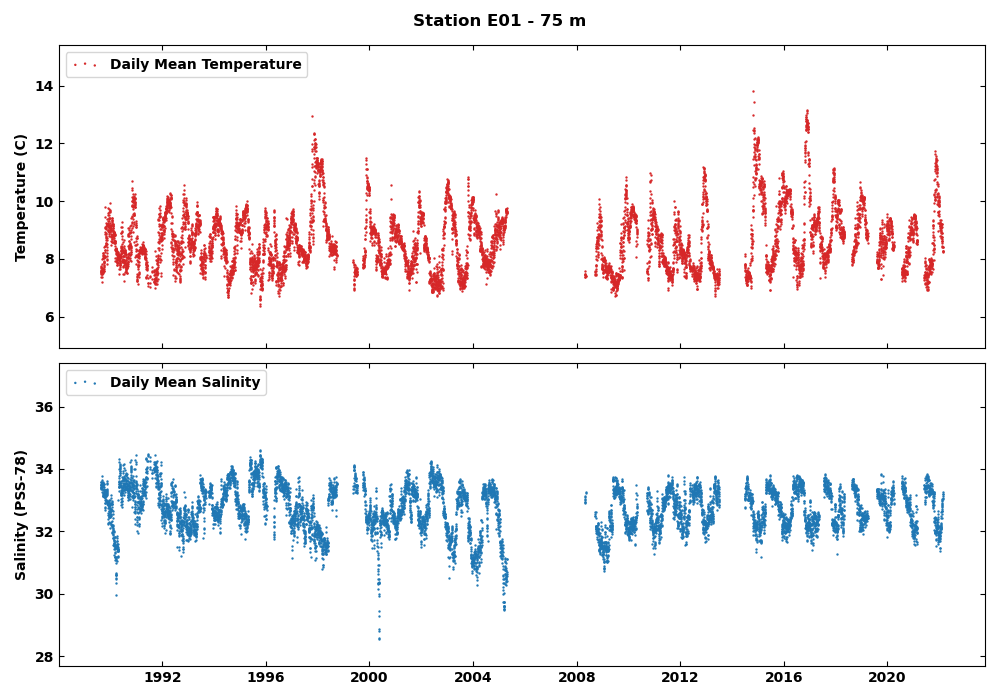
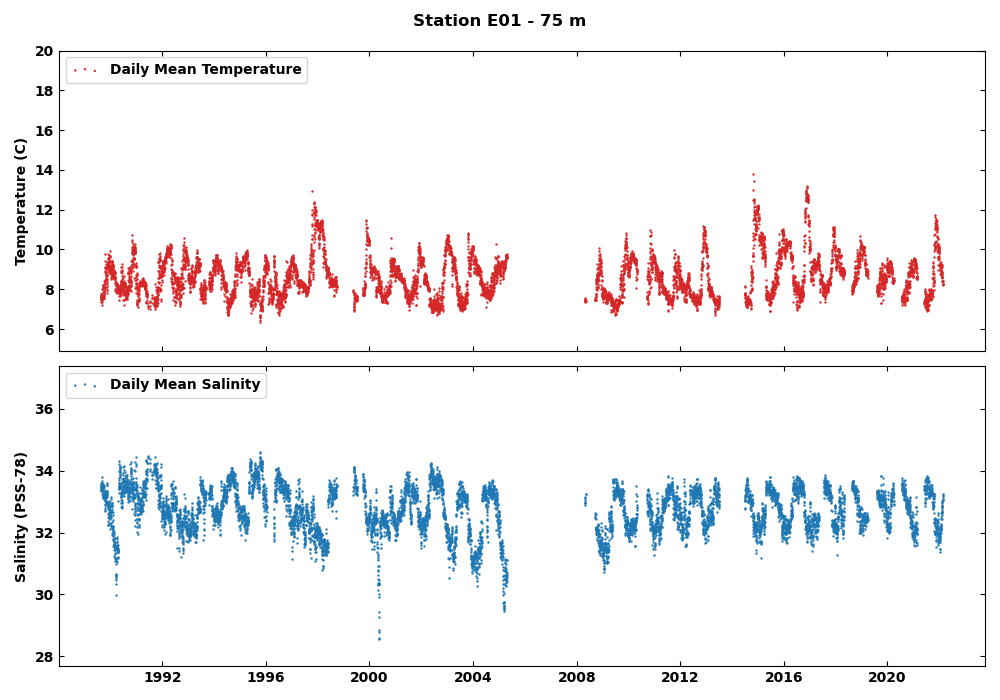
add cast CTD SST to the daily mean time series data for 35m at E01

diff --git a/scripts/plot_moored_data.py b/scripts/plot_moored_data.py
@@ -5,13 +5,20 @@ import pandas as pd
 import numpy as np
 import datetime
 from tqdm import trange
+import glob
+import xarray as xr
 
 VARS = ['Temperature', 'Salinity', 'Oxygen:Dissolved:SBE']
+
 # todo populate, may need to expand search up to 10-15m around each bin depth
 BIN_DEPTHS = {'E01': [35, 75, 95],
               'A1': [35, 100, 180, 300, 400, 490],
               'SCOTT2': [40, 100, 150, 200, 280]}  # Bin the data to +/- 5m around each bin centre
+
 START_YEAR = 1979
+
+VAR_CODES = {'Temperature': {'codes': ['TEMPS901', 'TEMPS601'], 'units': 'C'},
+             'Salinity': {'codes': [], 'units': 'PSS-78'}}
 
 
 def add_datetime(df: pd.DataFrame):
@@ -356,9 +363,52 @@ def compute_daily_means(df: pd.DataFrame, output_dir: str, station: str, half_bi
     return unique_datetimes, daily_means_T, daily_means_S
 
 
-def plot_daily_means(unique_datetimes, daily_means_T, daily_means_S, output_dir: str, station: str):
+def get_cast_sst(station: str):
+    # Add scatter of cast data
+    cast_list = glob.glob(
+        f'E:\\charles\\mooring_data_page\\{station.lower()}\\cast_ctd_data\\' + '*.ctd.nc'
+    )
+    cast_list.sort()
+
+    myvar = 'Temperature'
+
+    # Initialize arrays to hold sst values so that they can be plotted as line plot instead of scatter
+    cast_datetime = np.repeat(pd.NaT, len(cast_list))
+    sst = np.repeat(np.nan, len(cast_list))
+    depth = np.repeat(np.nan, len(cast_list))
+
+    for i in range(0, len(cast_list)):  # take a subset for testing
+        ds = xr.open_dataset(cast_list[i])
+
+        # # Get the date in float year format
+        # cast_time = pd.Timestamp(ds.time.data)
+        # cast_year = cast_time.year
+        # # second arg is to get day of year
+        # cast_year_decimals = cast_year + cast_time.timetuple().tm_yday / 365
+
+        # Find the code for the select var e.g. temperature
+        var_name = None
+        for code in VAR_CODES[myvar]['codes']:
+            if hasattr(ds, code):
+                var_name = code
+        if var_name is None:
+            print('ds', myvar, 'code unknown !')
+
+        cast_datetime[i] = pd.to_datetime(ds.time.data)
+        sst[i] = ds[var_name].data[0]
+        depth[i] = ds.depth.data[0]
+
+    # Sort the data by time
+    indices_sorted = np.argsort(cast_datetime)
+
+    return cast_datetime[indices_sorted], sst[indices_sorted], depth[indices_sorted]
+
+
+def plot_daily_means(unique_datetimes, daily_means_T, daily_means_S, output_dir: str,
+                     station: str, add_cast_sst: bool = False):
     """
     Plot daily mean Temperature and Salinity data
+    :param add_cast_sst:
     :param unique_datetimes:
     :param daily_means_T:
     :param daily_means_S:
@@ -366,7 +416,18 @@ def plot_daily_means(unique_datetimes, daily_means_T, daily_means_S, output_dir:
     :param station:
     :return:
     """
-    range_T = (np.nanmin(daily_means_T) - 0.5, np.nanmax(daily_means_T) + 1)
+
+    if add_cast_sst:
+        datetime_sst, sst, _ = get_cast_sst(station)
+
+        min_T = np.nanmin(np.concatenate((daily_means_T.flatten(), sst)))
+        max_T = 19  # np.nanmax(np.concatenate((daily_means_T.flatten(), sst)))
+    else:
+        min_T = np.nanmin(daily_means_T)
+        max_T = np.nanmax(daily_means_T)
+
+    # + 1 for range_T to gve extra space for the legend in the top left corner
+    range_T = (min_T - 0.5, max_T + 1)
     range_S = (np.nanmin(daily_means_S) - 0.5, np.nanmax(daily_means_S) + 0.5)
 
     # Plot the data
@@ -385,9 +446,6 @@ def plot_daily_means(unique_datetimes, daily_means_T, daily_means_S, output_dir:
         ax[1].set_ylim(range_S)
         ax[1].set_ylabel('Salinity (PSS-78)')
 
-        ax[0].legend(loc='upper left', scatterpoints=3)
-        ax[1].legend(loc='upper left', scatterpoints=3)
-
         # Make ticks point inward and on all sides
         for ax_j in [0, 1]:
             ax[ax_j].tick_params(which='major', direction='in',
@@ -395,9 +453,21 @@ def plot_daily_means(unique_datetimes, daily_means_T, daily_means_S, output_dir:
             ax[ax_j].tick_params(which='minor', direction='in',
                                  bottom=True, top=True, left=True, right=True)
 
+        # Add cast SST to most upper mooring depth plot
+        if add_cast_sst and i == 0:
+            ax[0].scatter(datetime_sst, sst, color='k', s=10, marker='+', label='Cast CTD SST')
+
+        ax[0].legend(loc='upper left', scatterpoints=3)
+        ax[1].legend(loc='upper left', scatterpoints=3)
+
         plt.suptitle(f'Station {station} - {depth} m')
         plt.tight_layout()
-        plt.savefig(os.path.join(output_dir, f'{station.lower()}_daily_mean_ts_{depth}m.png'))
+
+        if add_cast_sst and i == 0:
+            image_name = f'{station.lower()}_daily_mean_ts_{depth}m_SST.png'
+        else:
+            image_name = f'{station.lower()}_daily_mean_ts_{depth}m.png'
+        plt.savefig(os.path.join(output_dir, image_name))
         plt.close(fig)
     return
 
@@ -889,6 +959,8 @@ def run_plot(
     # Files are too big to store in the GitHub project directory
     data_dir = f'E:\\charles\\mooring_data_page\\{station.lower()}\\csv_data\\'
 
+    add_cast_sst = False
+
     if station == 'E01':
         file_list = [data_dir + f'{station.lower()}_cur_data_all.csv',
                      data_dir + f'{station.lower()}_ctd_data.csv']
@@ -900,6 +972,9 @@ def run_plot(
 
         # Reset the index in the dataframe
         df_all.reset_index(drop=True, inplace=True)
+
+        # Option to add cast sst data
+        add_cast_sst = True
     elif station == 'A1':
         file_list = [data_dir + f'{station.lower()}_cur_data.csv', data_dir + f'{station.lower()}_ctd_data.csv']
         cur_data = pd.read_csv(file_list[0])
@@ -965,7 +1040,8 @@ def run_plot(
             daily_means_T = df_daily_means.loc[:, T_columns].to_numpy().T
             daily_means_S = df_daily_means.loc[:, S_columns].to_numpy().T
 
-        plot_daily_means(unique_datetimes, daily_means_T, daily_means_S, output_dir, station)
+        plot_daily_means(unique_datetimes, daily_means_T, daily_means_S, output_dir, station,
+                         add_cast_sst)
 
     if any([do_daily_clim, do_daily_anom, do_monthly_means, do_monthly_clim, do_monthly_anom]):
         # Make daily means file if not already existing
